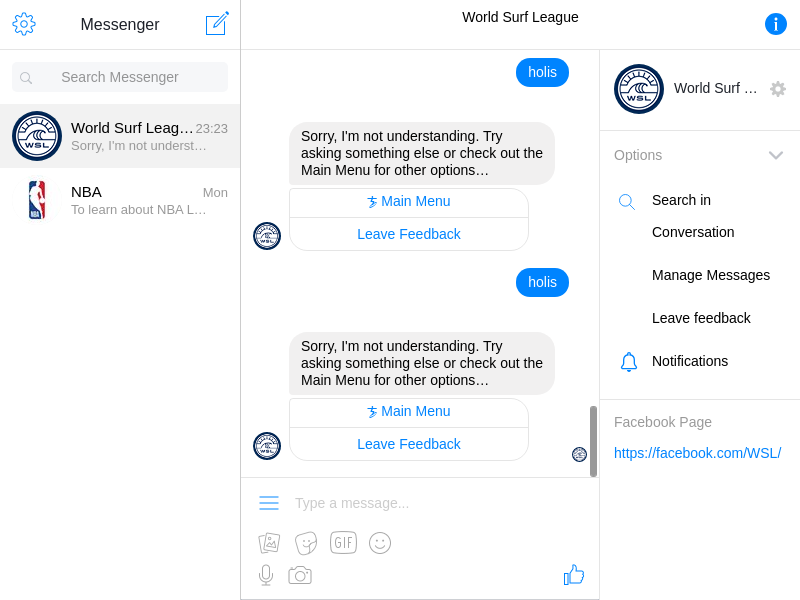
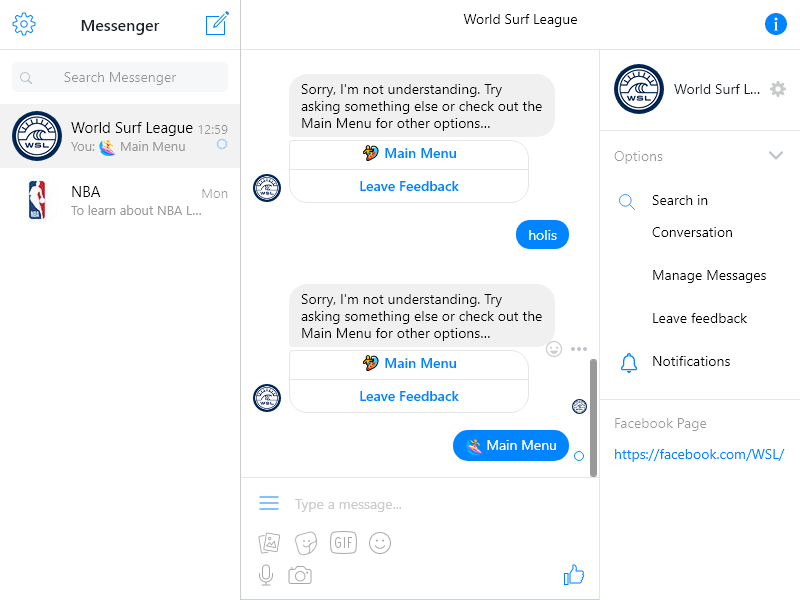
fixed emojis, text buttons handling

diff --git a/indexMessenger.js b/indexMessenger.js
@@ -6,8 +6,8 @@ const credentials = require("./credentials.js");
 (async () => {
 
   const browser = await puppeteer.launch({
-    executablePath:"./node_modules/chromium/lib/chromium/chrome-linux/chrome",//
-    headless: true//
+    //executablePath:"./node_modules/chromium/lib/chromium/chrome-linux/chrome",//
+    //headless: true//
   });
   const page = await browser.newPage(); 
   page.on('console', console.log); //Para poder hacer console.log dentro de .evaluate()
@@ -40,6 +40,7 @@ const credentials = require("./credentials.js");
 
 
   var botName = "WSL";
+  await page.screenshot({path: 'initialCap.png'});
   
   var idBot = await getIdBot(botName,page);
   console.log(idBot);
@@ -47,24 +48,26 @@ const credentials = require("./credentials.js");
 
   //await page.screenshot({path: 'archivedConv.png'});
   
-  
-  var arrayMessagesUnprocessed = await writeMessage(page,"holis").then((res)=>{
+  var arrayMessagesUnprocessed = await writeMessage(page,"holis");
+  /*.then((res)=>{
     console.log(res.time);
     res.nodes.forEach(function(element){
       console.log(element);
     });
     return res;
-  });
+  });*/
   var arrBotones = [];
   var arrPaths = [];
-  arrayMessagesUnprocessed.nodes.forEach(function(element){
+  arrayMessagesUnprocessed.nodes[0].forEach(function(element){
     if(element.type === "button"){
       arrPaths.push(element.path); 
+      console.log("YAY");
     }
   });
   if(arrPaths.length){
     var boton = await page.$(arrPaths[0]);
-    await boton.click(); //¿¿¿???
+    await page.screenshot({path: 'buttonNotPressed.png'});
+    await boton.click();
   }
  
   //TODO.: guardar el tiempo junto el mensaje que ha originado la respuesta, para reflejarlos juntos. (distinguir ante que mensajes se tarda más).
@@ -91,7 +94,7 @@ function getIdBot(botName,page){
   return new Promise(function(resolve,reject){
     (async ()=>{
       await page.goto('https://www.messenger.com/t/'+botName);
-      var botonStart = await page.$("a[href='#']:not([tabindex]):not([aria-label]):not([id])");
+      var botonStart = await page.$("a[href='#']:not([tabindex]):not([aria-label]):not([id]):not([role='button'])");
       var selectorBot;
   
       if(botonStart){ //boton de iniciar conversacion, cuando está ya iniciada no aparece.
@@ -139,7 +142,7 @@ function writeMessage(page,msg){
 
 return new Promise(function(resolve,reject){
     (async ()=>{
-      
+      //await new Promise(function(resolve,reject){setTimeout(resolve,200)});
       var messagePlace = await page.$("div[role='region'][aria-label='Messages']");
       var comboBox = await page.$("div[role='combobox']");
       await comboBox.type(msg);
@@ -172,7 +175,7 @@ return new Promise(function(resolve,reject){
           }
           var message = unprocessedNode.querySelector("span");
           if(message){
-            var obj = {type: "text", message: message.innerText, emojiFlag: regExpEmojis.test(message.innerText)
+            var obj = {type: "text", message: message.innerText, emojiFlag: regExpEmojis.test(message.innerHTML)
             };
             arrObjs.push(obj);
           }
